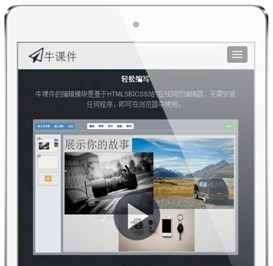
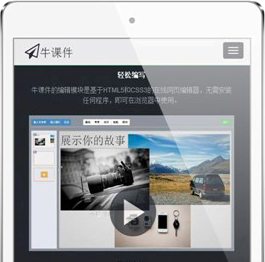
Beautified home-page and editor-page

diff --git a/public/css/font.css b/public/css/font.css
@@ -2,63 +2,63 @@
   font-family: 'Open Sans';
   font-style: normal;
   font-weight: 300;
-  src: local('Open Sans Light'), local('OpenSans-Light'), url('../fonts/open-sans/OpenSans-Light.woff') format('woff');
+  src: local('Open Sans Light'), local('OpenSans-Light'), url('fonts/open-sans/OpenSans-Light.woff') format('woff');
 }
 @font-face {
   font-family: 'Open Sans';
   font-style: italic;
   font-weight: 300;
-  src: local('Open Sans Light Italic'), local('OpenSans-LightItalic'), url('../fonts/open-sans/OpenSans-LightItalic.woff') format('woff');
+  src: local('Open Sans Light Italic'), local('OpenSans-LightItalic'), url('fonts/open-sans/OpenSans-LightItalic.woff') format('woff');
 }
 
 @font-face {
   font-family: 'Open Sans';
   font-style: normal;
   font-weight: normal;
-  src: local('Open Sans'), local('OpenSans-Regular'), url('../fonts/open-sans/OpenSans-Regular.woff') format('woff');
+  src: local('Open Sans'), local('OpenSans-Regular'), url('fonts/open-sans/OpenSans-Regular.woff') format('woff');
 }
 @font-face {
   font-family: 'Open Sans';
   font-style: italic;
   font-weight: normal;
-  src: local('Open Sans'), local('OpenSans-Italic'), url('../fonts/open-sans/OpenSans-Italic.woff') format('woff');
+  src: local('Open Sans'), local('OpenSans-Italic'), url('fonts/open-sans/OpenSans-Italic.woff') format('woff');
 }
 
 @font-face {
   font-family: 'Open Sans';
   font-style: normal;
   font-weight: 600;
-  src: local('Open Sans Semi Bold'), local('OpenSans-SemiBold'), url('../fonts/open-sans/OpenSans-SemiBold.woff') format('woff');
+  src: local('Open Sans Semi Bold'), local('OpenSans-SemiBold'), url('fonts/open-sans/OpenSans-SemiBold.woff') format('woff');
 }
 @font-face {
   font-family: 'Open Sans';
   font-style: italic;
   font-weight: 600;
-  src: local('Open Sans Semi Bold Italic'), local('OpenSans-SemiBoldItalic'), url('../fonts/open-sans/OpenSans-SemiBoldItalic.woff') format('woff');
+  src: local('Open Sans Semi Bold Italic'), local('OpenSans-SemiBoldItalic'), url('fonts/open-sans/OpenSans-SemiBoldItalic.woff') format('woff');
 }
 
 @font-face {
   font-family: 'Open Sans';
   font-style: normal;
   font-weight: bold;
-  src: local('Open Sans Bold'), local('OpenSans-Bold'), url('../fonts/open-sans/OpenSans-Bold.woff') format('woff');
+  src: local('Open Sans Bold'), local('OpenSans-Bold'), url('fonts/open-sans/OpenSans-Bold.woff') format('woff');
 }
 @font-face {
   font-family: 'Open Sans';
   font-style: italic;
   font-weight: bold;
-  src: local('Open Sans Bold Italic'), local('OpenSans-BoldItalic'), url('../fonts/open-sans/OpenSans-BoldItalic.woff') format('woff');
+  src: local('Open Sans Bold Italic'), local('OpenSans-BoldItalic'), url('fonts/open-sans/OpenSans-BoldItalic.woff') format('woff');
 }
 
 @font-face {
   font-family: 'Open Sans';
   font-style: normal;
   font-weight: 800;
-  src: local('Open Sans Extra Bold'), local('OpenSans-ExtraBold'), url('../fonts/open-sans/OpenSans-ExtraBold.woff') format('woff');
+  src: local('Open Sans Extra Bold'), local('OpenSans-ExtraBold'), url('fonts/open-sans/OpenSans-ExtraBold.woff') format('woff');
 }
 @font-face {
   font-family: 'Open Sans';
   font-style: italic;
   font-weight: 800;
-  src: local('Open Sans Extra Bold Italic'), local('OpenSans-ExtraBoldItalic'), url('../fonts/open-sans/OpenSans-ExtraBoldItalic.woff') format('woff');
+  src: local('Open Sans Extra Bold Italic'), local('OpenSans-ExtraBoldItalic'), url('fonts/open-sans/OpenSans-ExtraBoldItalic.woff') format('woff');
 }

diff --git a/public/js/views/headbar/HeadbarView.js b/public/js/views/headbar/HeadbarView.js
@@ -8,7 +8,6 @@ define(["CustomView",
     ComponentButton, ComponentImportButton, HeadbarTemplate) {
 
     return CustomView.extend({
-        className: 'page-header',
         events: {
             'click .undo': 'undo',
             'click .redo': 'redo',
@@ -26,14 +25,16 @@ define(["CustomView",
             });
             this._textBoxButton = new ComponentButton({
                 componentType: 'TextBox',
-                icon: 'icon-text-width',
-                name: '插入文本框',
+                icon: 'fa fa-text-width',
+                btnType: 'btn-info',
+                name: '',
                 model: this.model
             });
             this._imageButton = new ComponentImportButton({
                 componentType: 'Image',
-                icon: 'icon-picture',
-                name: '插入图片',
+                icon: 'fa fa-picture-o',
+                name: '',
+                btnType: 'btn-success',
                 tag: 'img',
                 title: '插入图片',
                 model: this.model,

diff --git a/public/css/styles.css b/public/css/styles.css
@@ -9,9 +9,10 @@
     background-color: #eee;
     background-image: url(../img/ss.jpg);
     background-repeat: no-repeat;
-    background-attachment: fixed;
     background-size: cover;
     background-position: center center;
+    /*background fixed scroll not working well in some browser*/
+    /*background-attachment: fixed;*/
 }
 
 /* Buttons */
@@ -155,7 +156,7 @@ hr.content-hr {
 }
 
 .product-teaser .product-teaser-desc {
-    color: #959eaa;
+    color: #666;
 }
 
 .product-teaser .left-desc {
@@ -223,7 +224,7 @@ span.rollover:hover {
 /* =============================== */
 
 .marketing-icon {
-    margin-bottom: 10px;
+    margin: 10px 0;
     border-radius: 50%;
     box-shadow: 0 0 0 5px #272b31;
     -webkit-transition: 0.25s;

diff --git a/public/js/views/save_btn/ButtonView.js b/public/js/views/save_btn/ButtonView.js
@@ -1,7 +1,7 @@
 define(["CustomView", "../storage/StorageModal"], function(CustomView, StorageModal) {
 
     return CustomView.extend({
-        className: 'btn btn-success',
+        className: 'btn btn-info',
         tagName: 'a',
         events: {
             click: '_clicked'
@@ -14,7 +14,7 @@ define(["CustomView", "../storage/StorageModal"], function(CustomView, StorageMo
         },
 
         render: function() {
-            this.$el.html('保存');
+            this.$el.html('<i class="fa fa-save"></i>');
             return this;
         },
 

diff --git a/public/js/views/slide_components/view/ComponentButton.js b/public/js/views/slide_components/view/ComponentButton.js
@@ -1,7 +1,7 @@
 define(["CustomView"], function(CustomView) {
 
     return CustomView.extend({
-        className: 'btn btn-primary btn-icon icon-left hidden-print',
+        className: 'btn btn-icon icon-left hidden-print',
         tagName: 'a',
 
         events: {
@@ -10,6 +10,7 @@ define(["CustomView"], function(CustomView) {
 
         initialize: function() {
             this.$el.attr('data-compType', this.options.componentType);
+            this.$el.addClass(this.options.btnType);
         },
 
         _clicked: function() {

diff --git a/public/js/views/headbar/ThemeProviderBtn.js b/public/js/views/headbar/ThemeProviderBtn.js
@@ -10,7 +10,7 @@ define(["CustomView", "../themes/BackgroundProvider", "css!styles/app/headbar/th
 
             render: function() {
                 this.$el.append('<a data-target="#" data-toggle="dropdown" role="button" class="dropdown-toggle">' +
-                    '<i class="icon-gear"></i><strong>背景</strong></a>');
+                    '<i class="fa fa-bars"></i></a>');
                 this.$el.append(new BackgroundProvider(this.model).view().render().$el);
 
                 return this;

diff --git a/public/css/custom.css b/public/css/custom.css
@@ -1516,8 +1516,10 @@ pre {
 .title {
   font-weight: 500;
 }
-.centered {
-  text-align: center !important;
+.vcenter {
+  display: inline-block;
+  vertical-align: middle;
+  float: none;
 }
 .uppercase {
   text-transform: uppercase;
@@ -1534,6 +1536,9 @@ pre {
 .center-image {
   display: block;
   margin: 0 auto;
+}
+.nopadding {
+  padding: 0 !important;
 }
 /* Font Size */
 body {

diff --git a/public/less/reset.less b/public/less/reset.less
@@ -643,8 +643,10 @@ blockquote{
     font-weight: 500;
 }
 
-.centered {
-    text-align: center !important;
+.vcenter {
+    display: inline-block;
+    vertical-align: middle;
+    float: none;
 }
 
 .uppercase {
@@ -666,4 +668,8 @@ blockquote{
 .center-image {
     display: block;
     margin: 0 auto;
+}
+
+.nopadding {
+   padding: 0 !important;
 }
